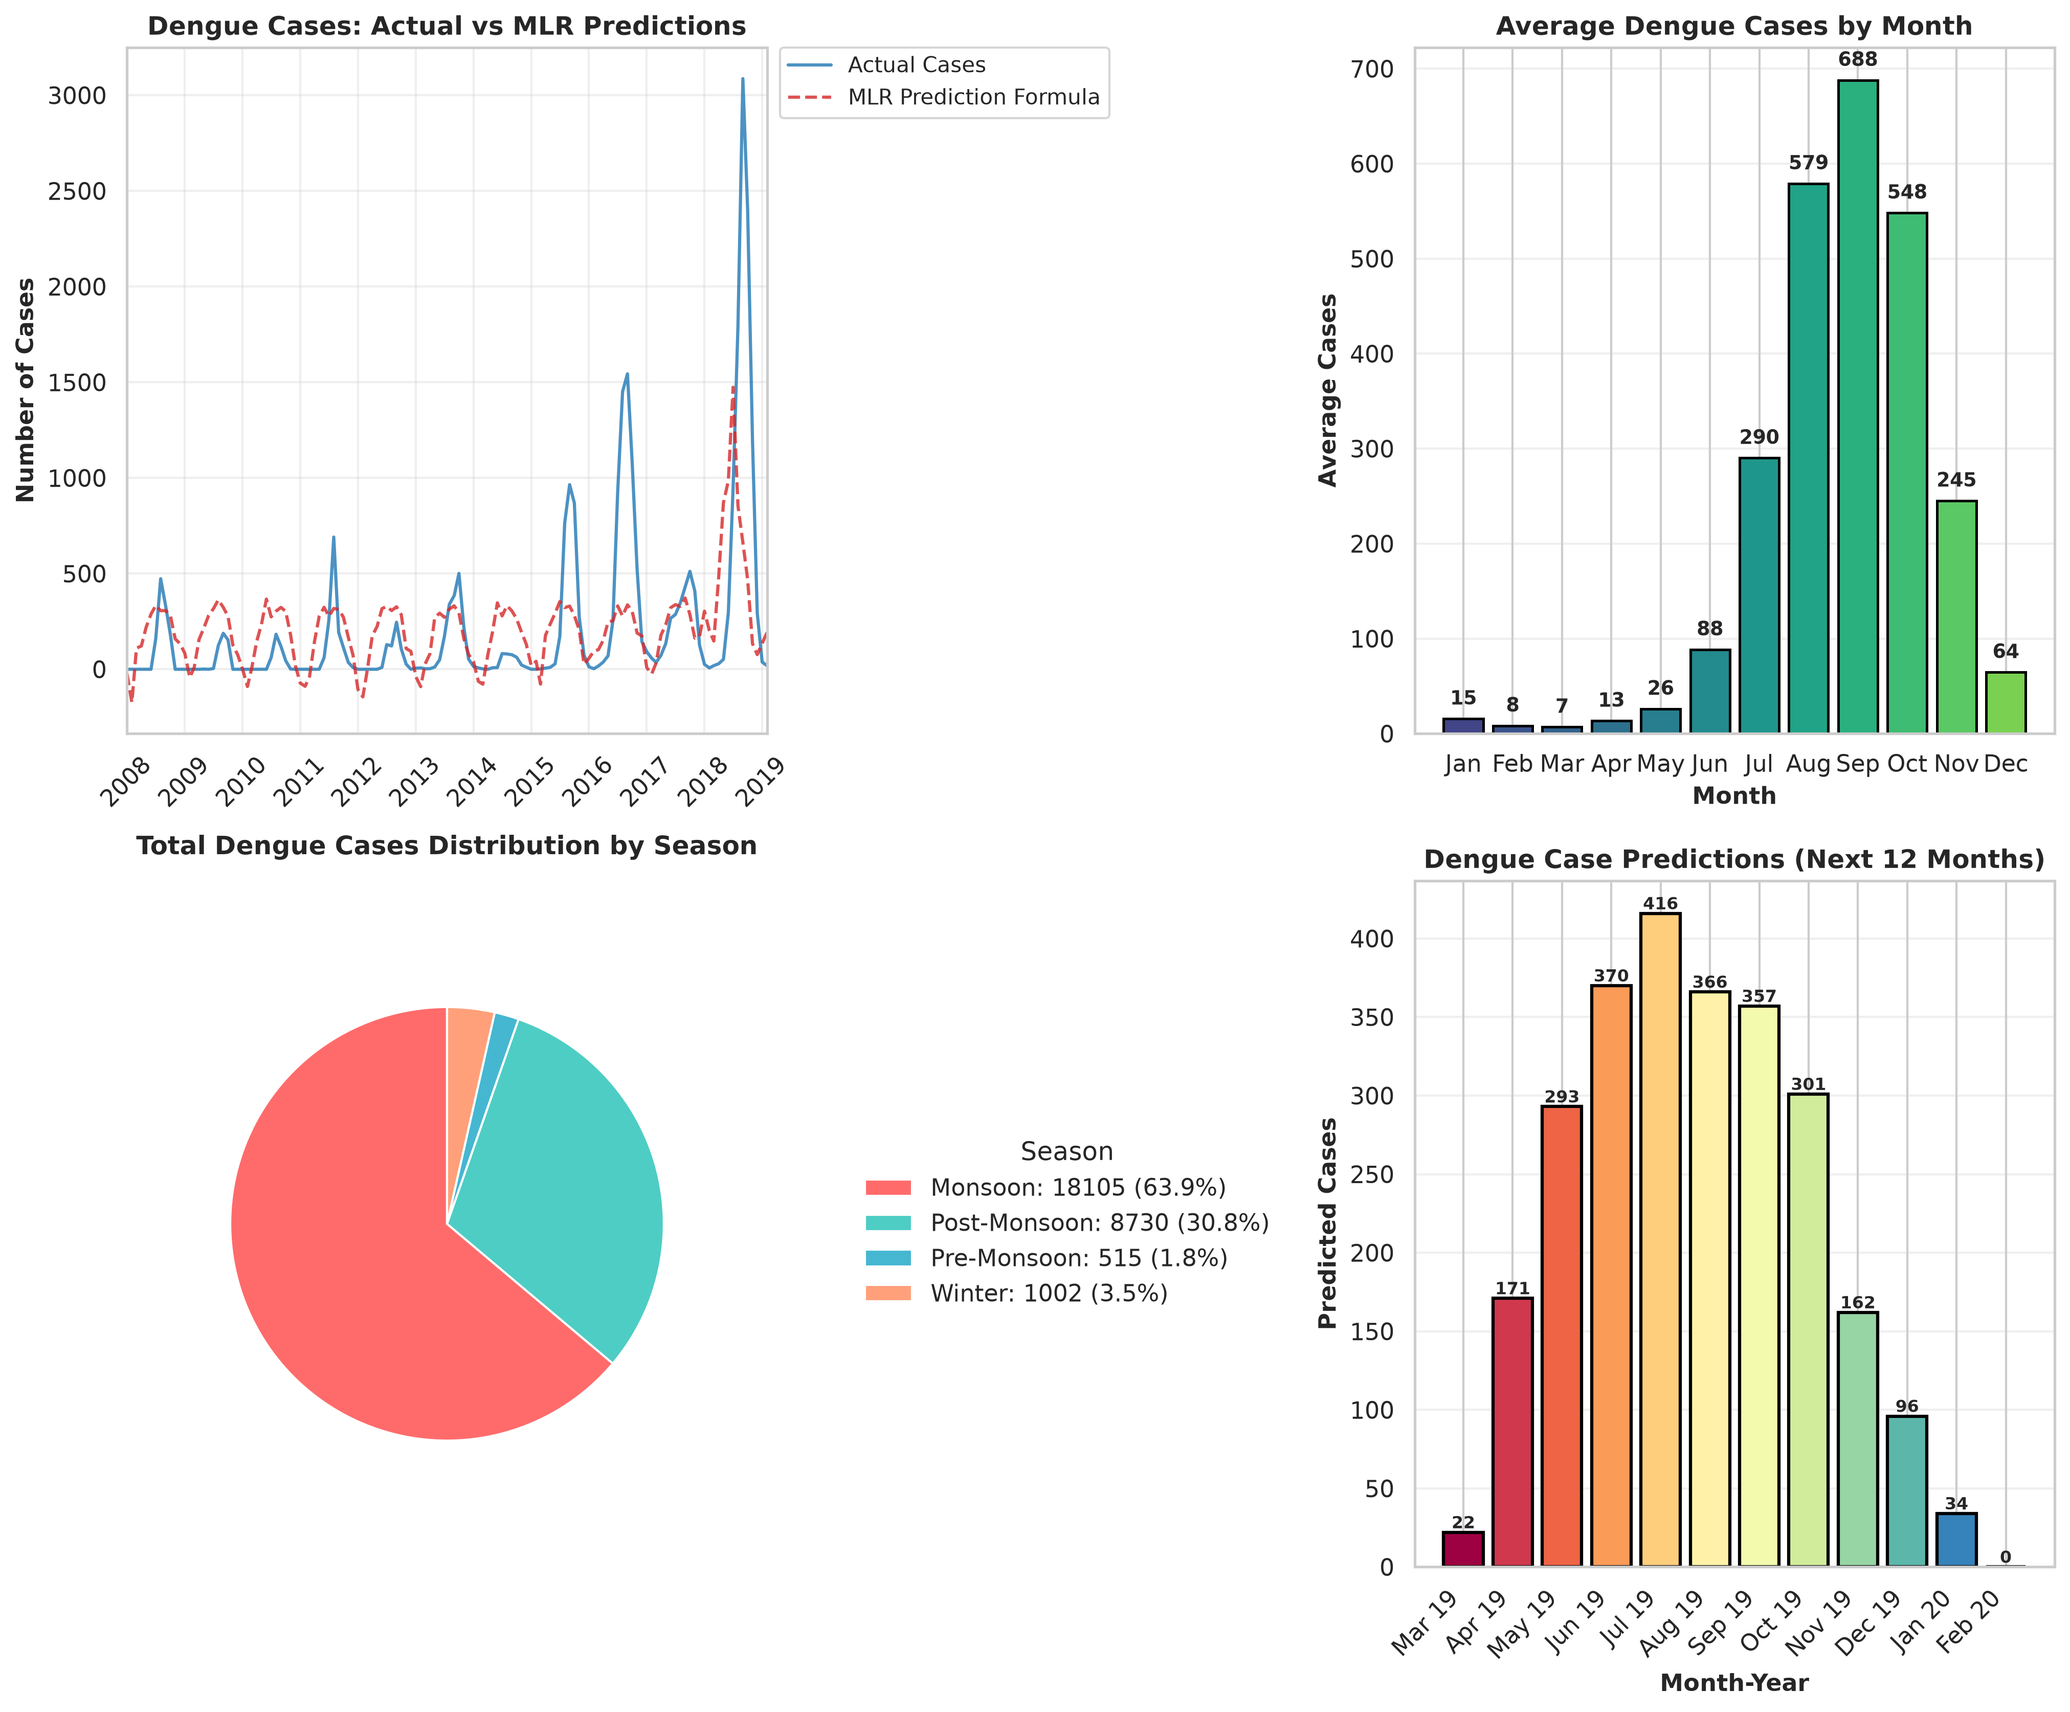
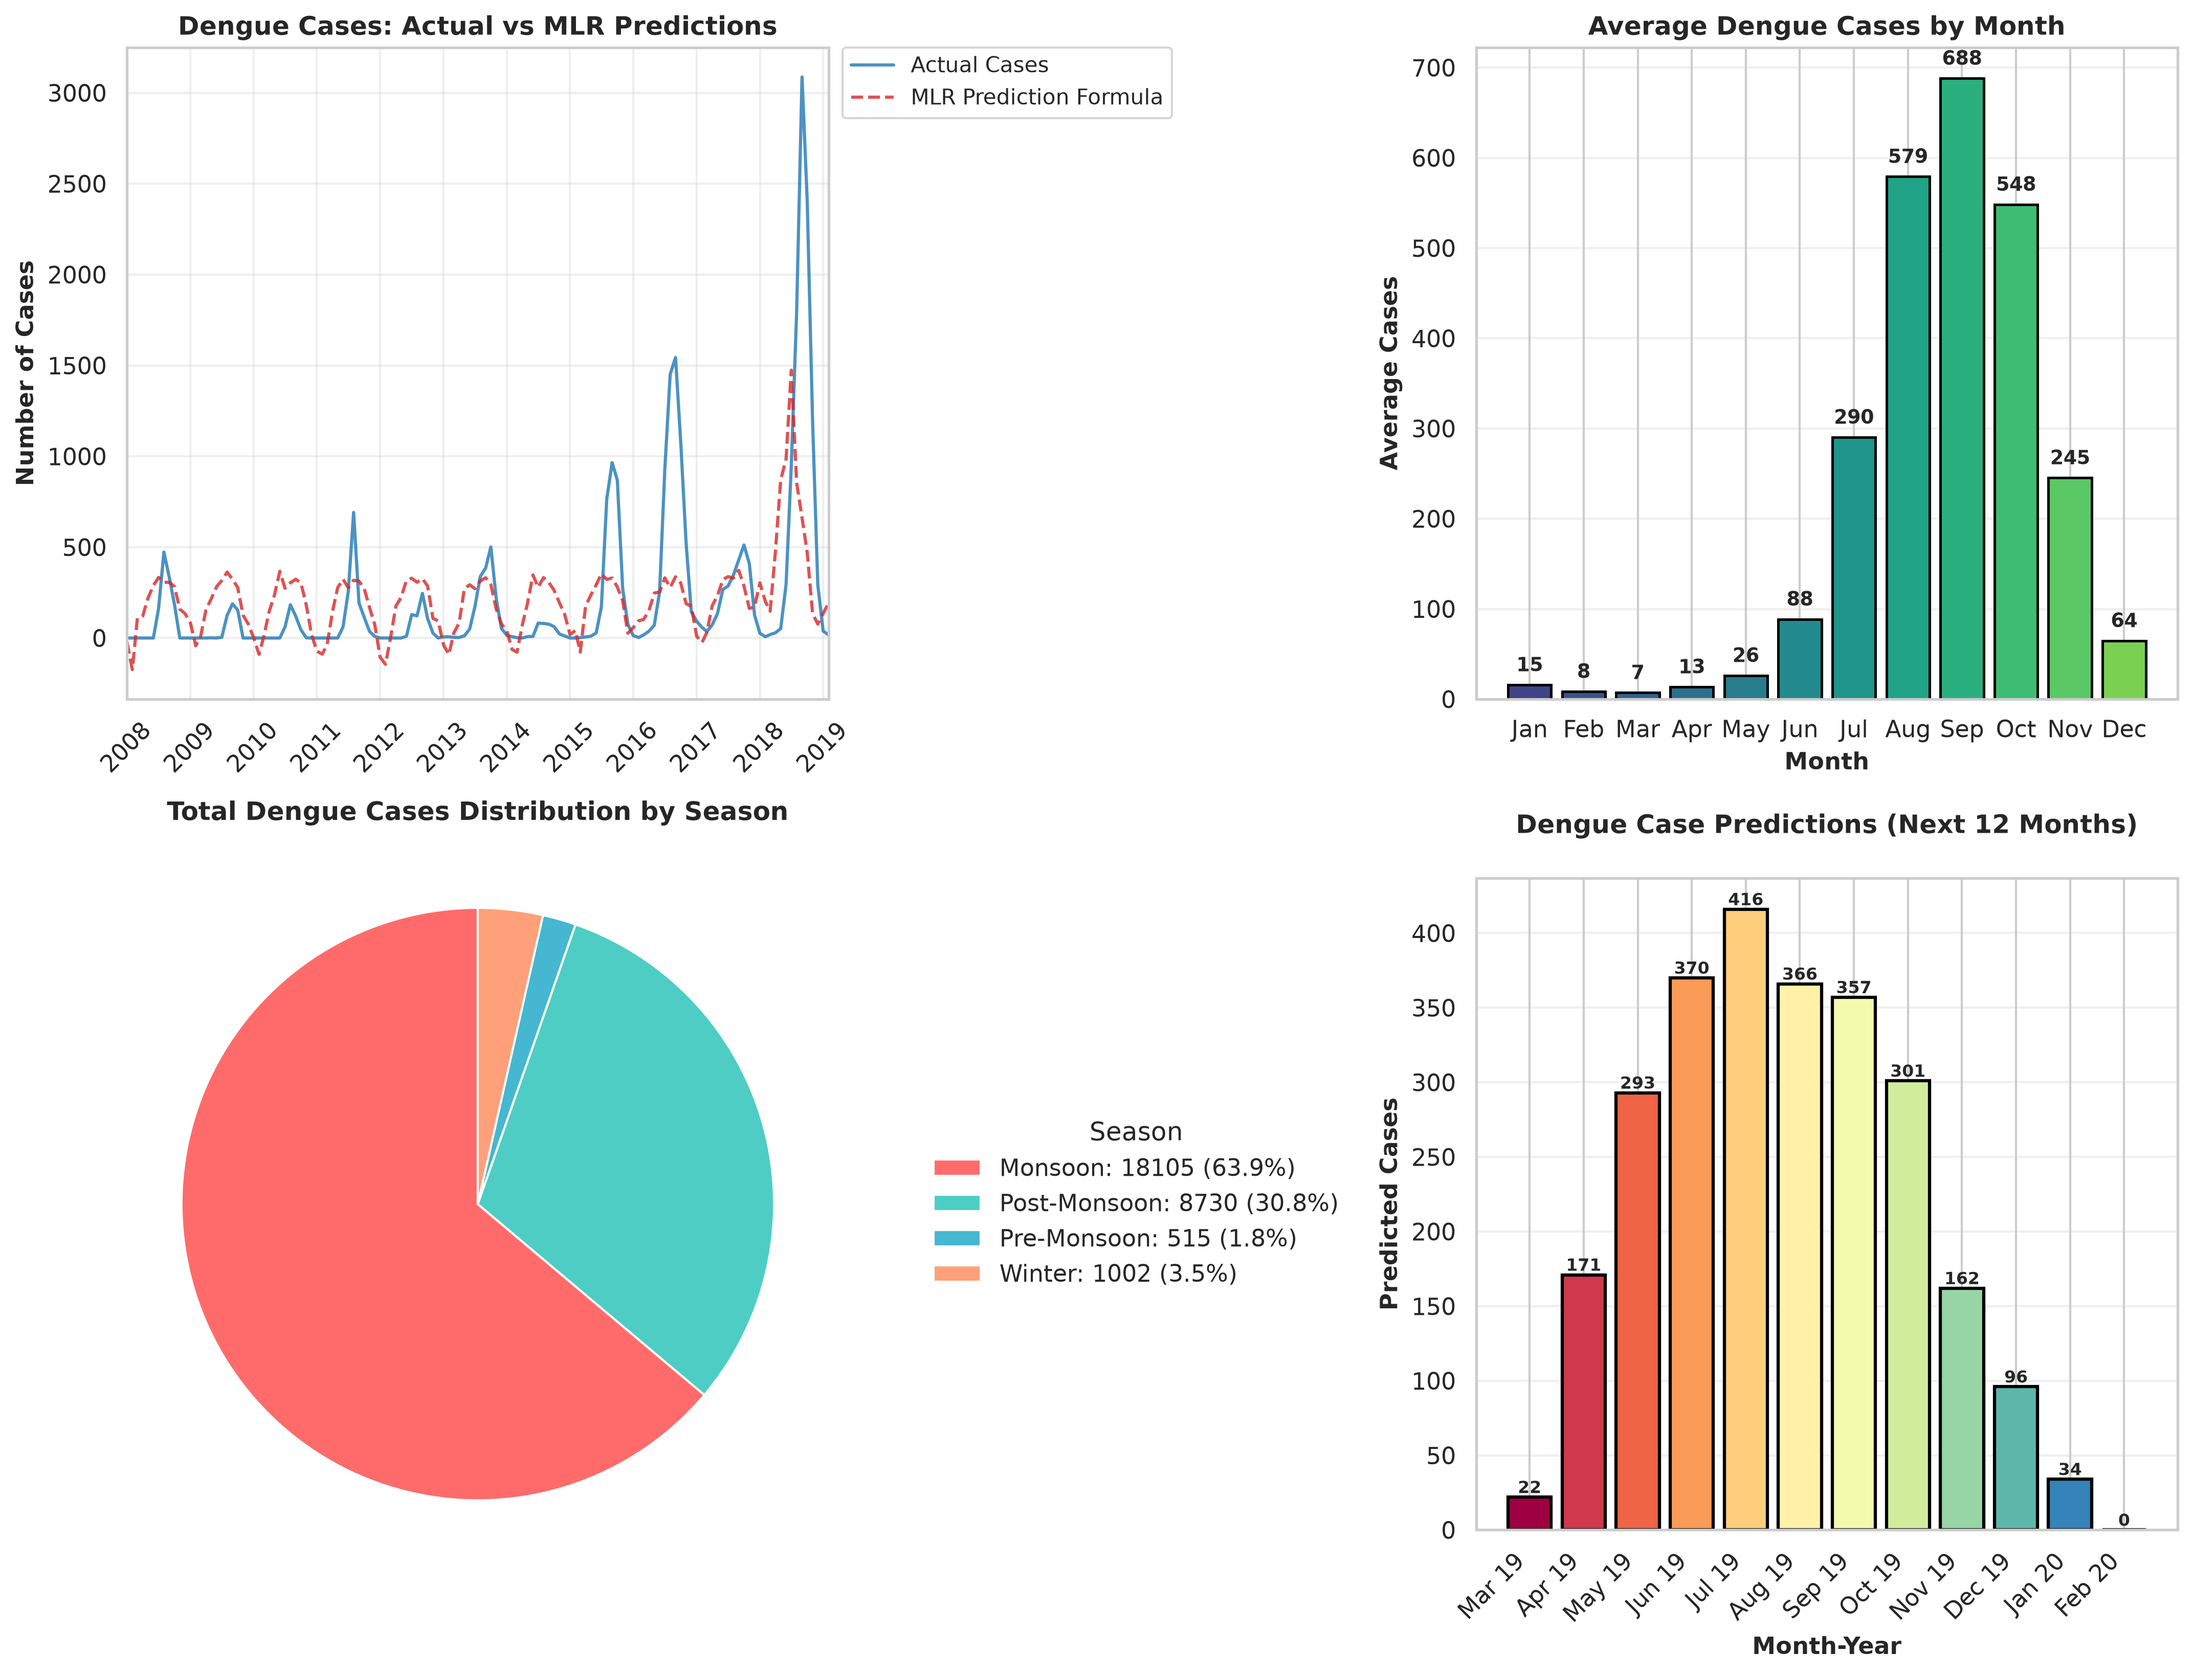
Align subplot titles using axes-relative text; adjust layout

diff --git a/DengueOutbreakPrediction/multi-linear regression/model.py b/DengueOutbreakPrediction/multi-linear regression/model.py
@@ -274,8 +274,11 @@ wedges, _texts = axes[1, 0].pie(
     radius=0.75,
     wedgeprops={'edgecolor': 'white', 'linewidth': 1}
 )
-axes[1, 0].set_title('Total Dengue Cases Distribution by Season', fontsize=12, fontweight='bold', y=1.02, loc='center', x=0.5)
 axes[1, 0].axis('equal')
+# Place the pie chart title explicitly relative to its axes to ensure centering
+axes[1, 0].text(0.5, 1.08, 'Total Dengue Cases Distribution by Season',
+                transform=axes[1, 0].transAxes, ha='center', va='bottom',
+                fontsize=12, fontweight='bold')
 # Build legend labels that include counts and percentage values to avoid overlapping text
 total = seasonal_total.values.sum()
 percentages = 100.0 * seasonal_total.values / total
@@ -295,14 +298,17 @@ axes[1, 1].set_xticks(range(len(future_df)))
 axes[1, 1].set_xticklabels(month_labels, rotation=45, ha='right')
 axes[1, 1].set_xlabel('Month-Year', fontsize=11, fontweight='bold')
 axes[1, 1].set_ylabel('Predicted Cases', fontsize=11, fontweight='bold')
-axes[1, 1].set_title('Dengue Case Predictions (Next 12 Months)', fontsize=12, fontweight='bold')
+# Place the predictions title relative to its axes to guarantee proper alignment
+axes[1, 1].text(0.5, 1.06, 'Dengue Case Predictions (Next 12 Months)',
+                transform=axes[1, 1].transAxes, ha='center', va='bottom',
+                fontsize=12, fontweight='bold')
 axes[1, 1].grid(True, alpha=0.3, axis='y')
 for bar in bars_future:
     height = bar.get_height()
     axes[1, 1].text(bar.get_x() + bar.get_width()/2., height,
                     f'{int(height)}', ha='center', va='bottom', fontsize=8, fontweight='bold')
 
-plt.tight_layout(rect=[0, 0, 0.85, 0.94])
+plt.tight_layout(rect=[0, 0, 0.9, 0.92])
 plt.savefig('dengue_mlr_analysis.png', dpi=300, bbox_inches='tight')
 print("✓ Main analysis plot saved: dengue_mlr_analysis.png")
 plt.close()
